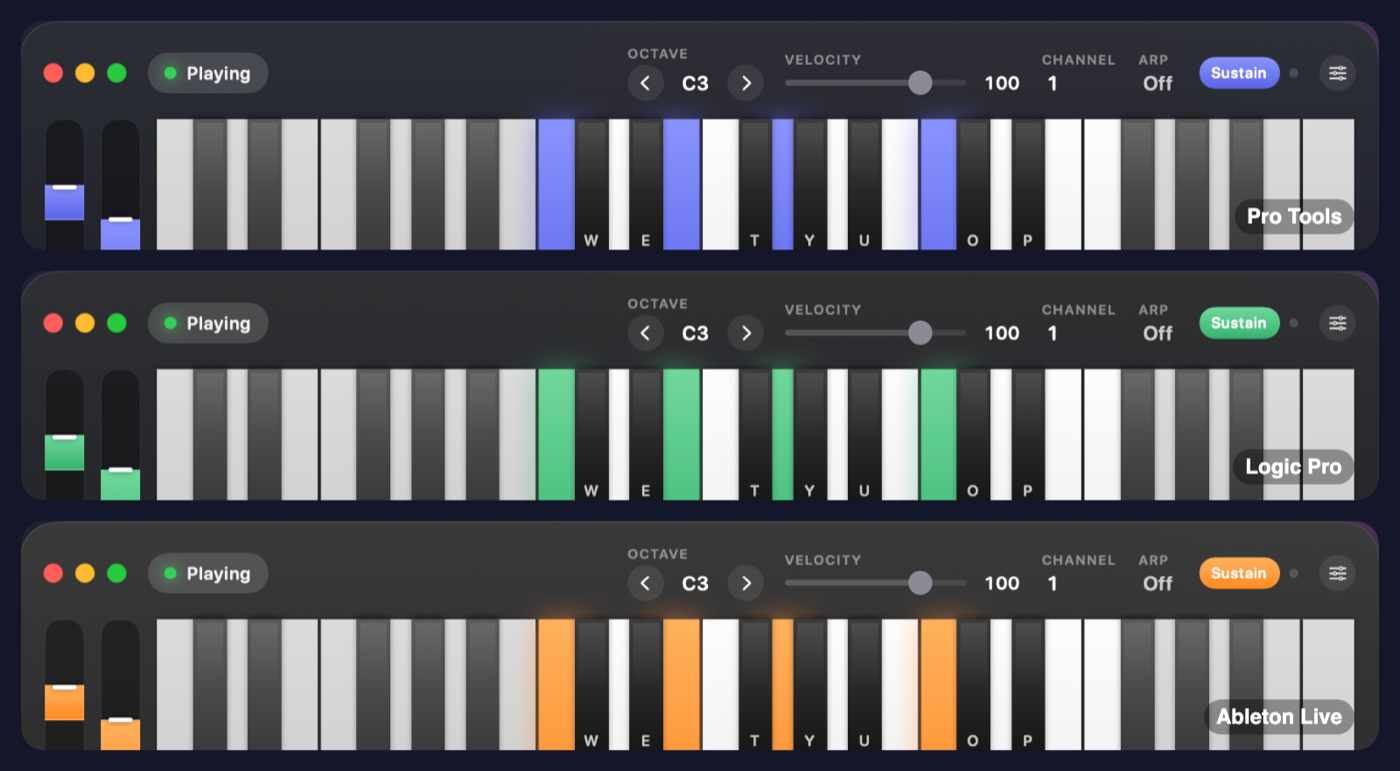
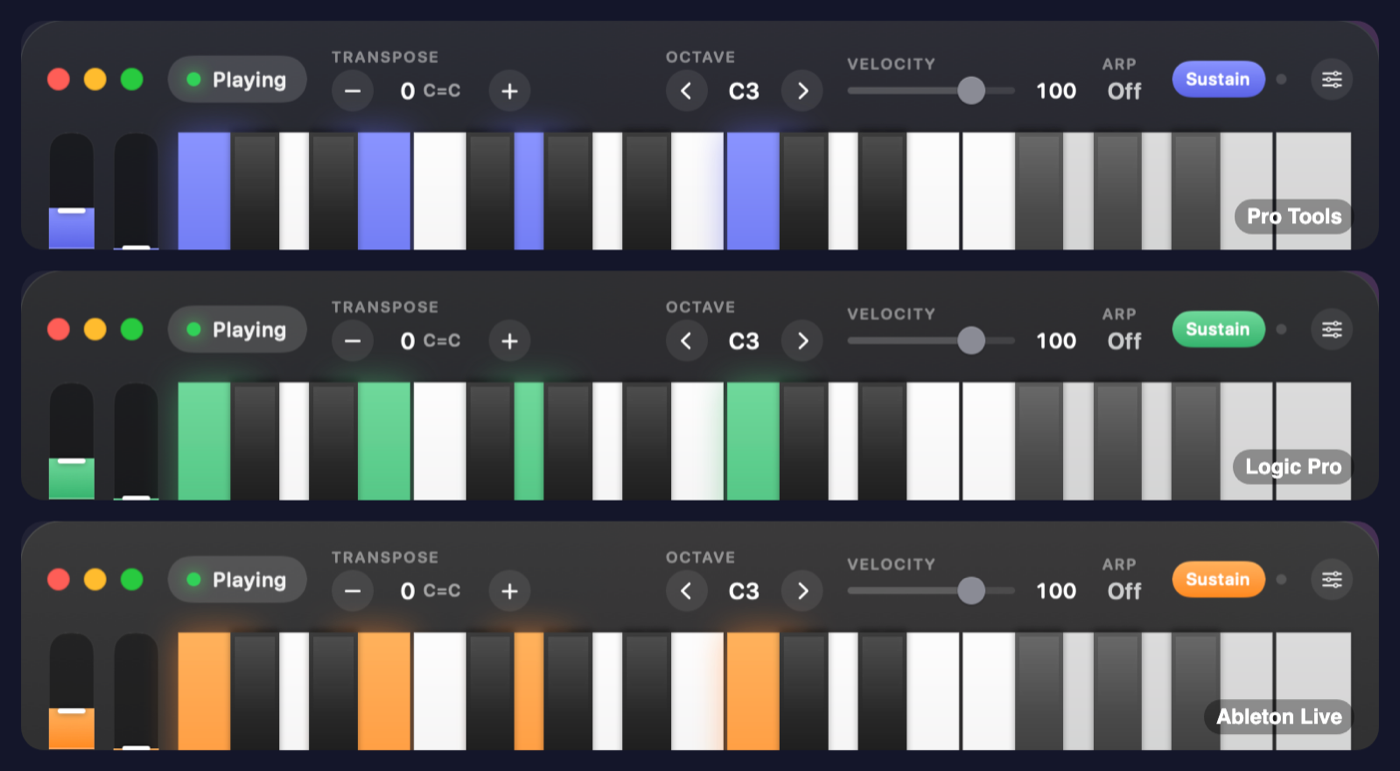
Refresh screenshots for the two-octave keyboard
New hero, arpeggiator, sequencer and looks images, plus a proper
chords and scale settings shot.

diff --git a/index.html b/index.html
@@ -174,7 +174,7 @@ footer { border-top: 1px solid var(--card-line); padding: 28px 0 40px; color: va
       <span>Never connects to the internet</span>
       <span>No account, no tracking</span>
     </div>
-    <div class="shot"><img src="img/keyboard.png" alt="The Ivory Keys keyboard window with octave, velocity, channel and arpeggiator controls" width="1600" height="541"></div>
+    <div class="shot"><img src="img/keyboard.png" alt="The Ivory Keys keyboard window with transpose, octave, velocity and arpeggiator controls over two octaves" width="1600" height="619"></div>
   </header>
 
   <section>
@@ -234,7 +234,7 @@ footer { border-top: 1px solid var(--card-line); padding: 28px 0 40px; color: va
           <li>Adjustable note length, tap tempo and latch</li>
         </ul>
       </div>
-      <div class="media"><img src="img/arp-drawer.png" alt="The Ivory Keys arpeggiator drawer open under the keyboard, with pattern, rate, octaves, tempo and the live note sequence" loading="lazy" width="1400" height="754"></div>
+      <div class="media"><img src="img/arp-drawer.png" alt="The Ivory Keys arpeggiator drawer open under the keyboard, with pattern, rate, octaves, tempo and the live note sequence" loading="lazy" width="1400" height="1015"></div>
     </div>
   </section>
 
@@ -250,7 +250,7 @@ footer { border-top: 1px solid var(--card-line); padding: 28px 0 40px; color: va
           <li>Drag MIDI works for arpeggios too, in Pro Tools, Logic, Ableton and more</li>
         </ul>
       </div>
-      <div class="media"><img src="img/sequencer.png" alt="The Ivory Keys step sequencer: a 16-step piano-roll grid with accent and tie rows and a Drag MIDI button" loading="lazy" width="1400" height="1058"></div>
+      <div class="media"><img src="img/sequencer.png" alt="The Ivory Keys step sequencer: a 16-step piano-roll grid with accent and tie rows and a Drag MIDI button" loading="lazy" width="1400" height="1273"></div>
     </div>
   </section>
 
@@ -281,7 +281,7 @@ footer { border-top: 1px solid var(--card-line); padding: 28px 0 40px; color: va
           <li>Transpose without changing octave</li>
         </ul>
       </div>
-      <div class="media"><img src="img/chords.png" alt="Ivory Keys chords and scale lock settings" loading="lazy" width="1200" height="862"></div>
+      <div class="media"><img src="img/scale.png" alt="Ivory Keys chords and scale lock settings" loading="lazy" width="1400" height="1005"></div>
     </div>
   </section>
 
